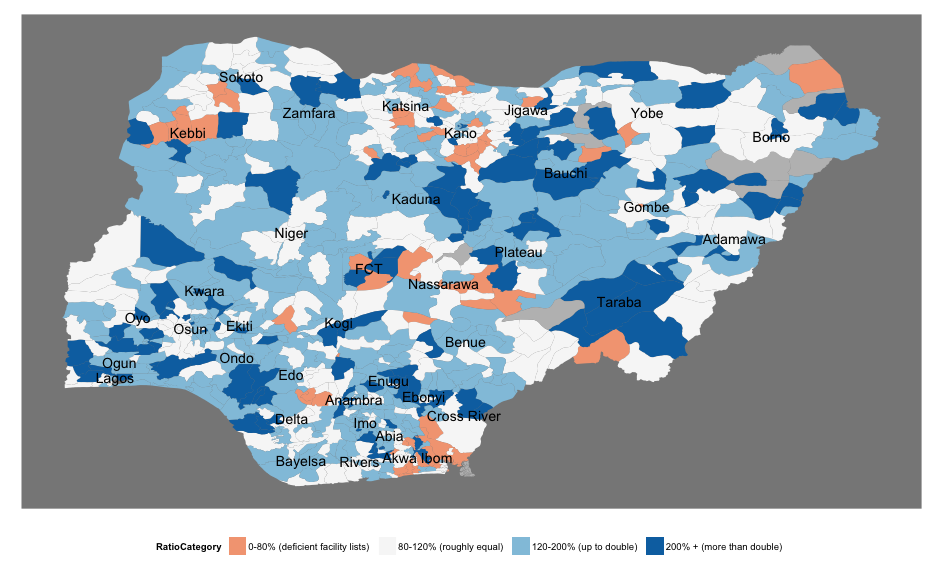
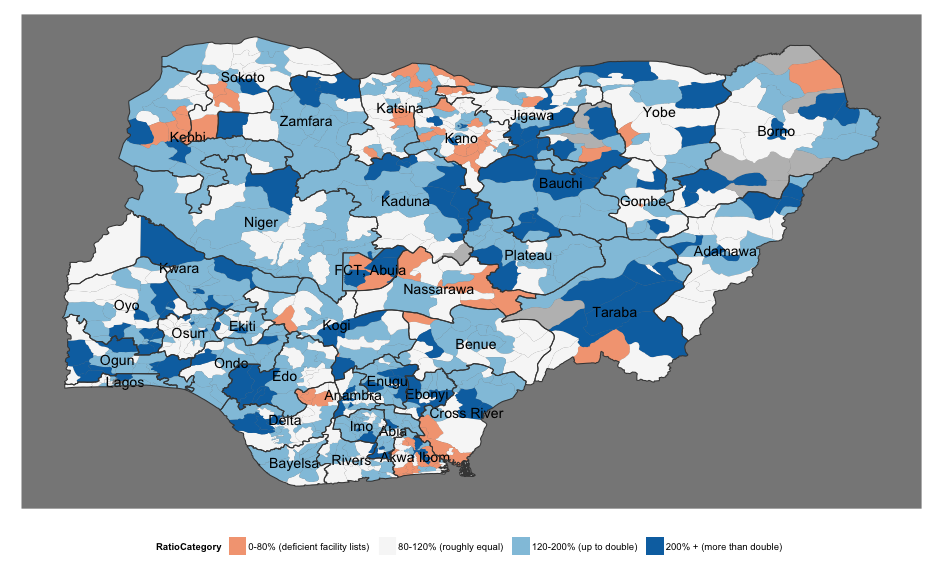
state overlays on the images

diff --git a/prabhas/kigali-mopup-presentation/index.html b/prabhas/kigali-mopup-presentation/index.html
@@ -182,6 +182,17 @@ FacilitiesMissing     24037   23757 19669 &lt;NA&gt;
 
       <slide class="" id="slide-11" style="background:;">
   <hgroup>
+    <h2>Baseline coverage (matched / facility list)</h2>
+  </hgroup>
+  <article>
+    <p><img src="figure/unnamed-chunk-10.png" alt="plot of chunk unnamed-chunk-10"> </p>
+
+  </article>
+  <!-- Presenter Notes -->
+</slide>
+
+      <slide class="" id="slide-12" style="background:;">
+  <hgroup>
     <h2>Thank you</h2>
   </hgroup>
   <article>
